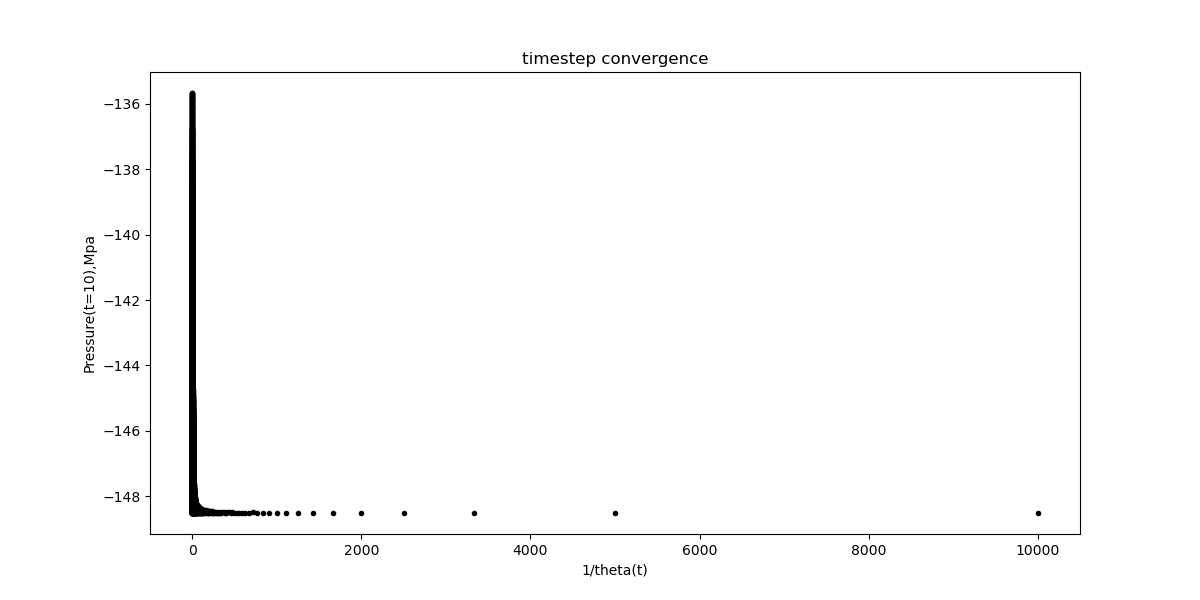
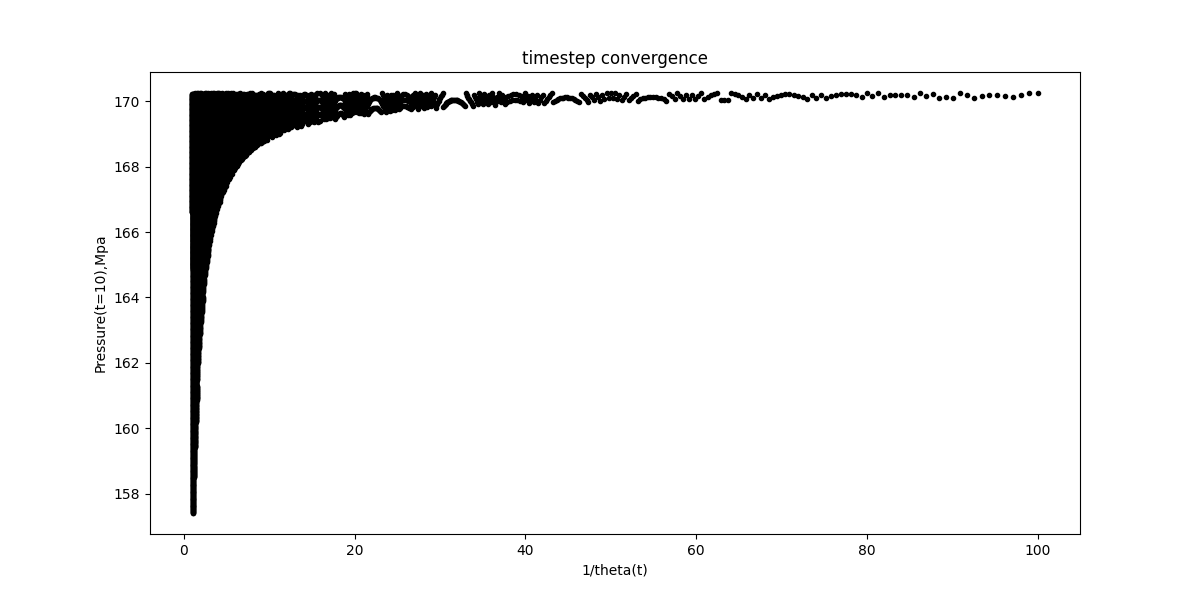
beautified graph

diff --git a/benchmarking.py b/benchmarking.py
@@ -140,7 +140,7 @@ def benchmarking(a, d, q, p0, plot = True):
         f2, ax2 = plt.subplots(1, 1, figsize=(12,6))
         con = []
         thetat = []
-        for i in np.arange(0.0001,1,0.0001):
+        for i in np.arange(0.01,1,0.0001):
             x3,y3 = solve_ode(fun, 0, 10, i, p0, parm)
             # record the pressure when (t = 10)
             con.append(y3[-1])
